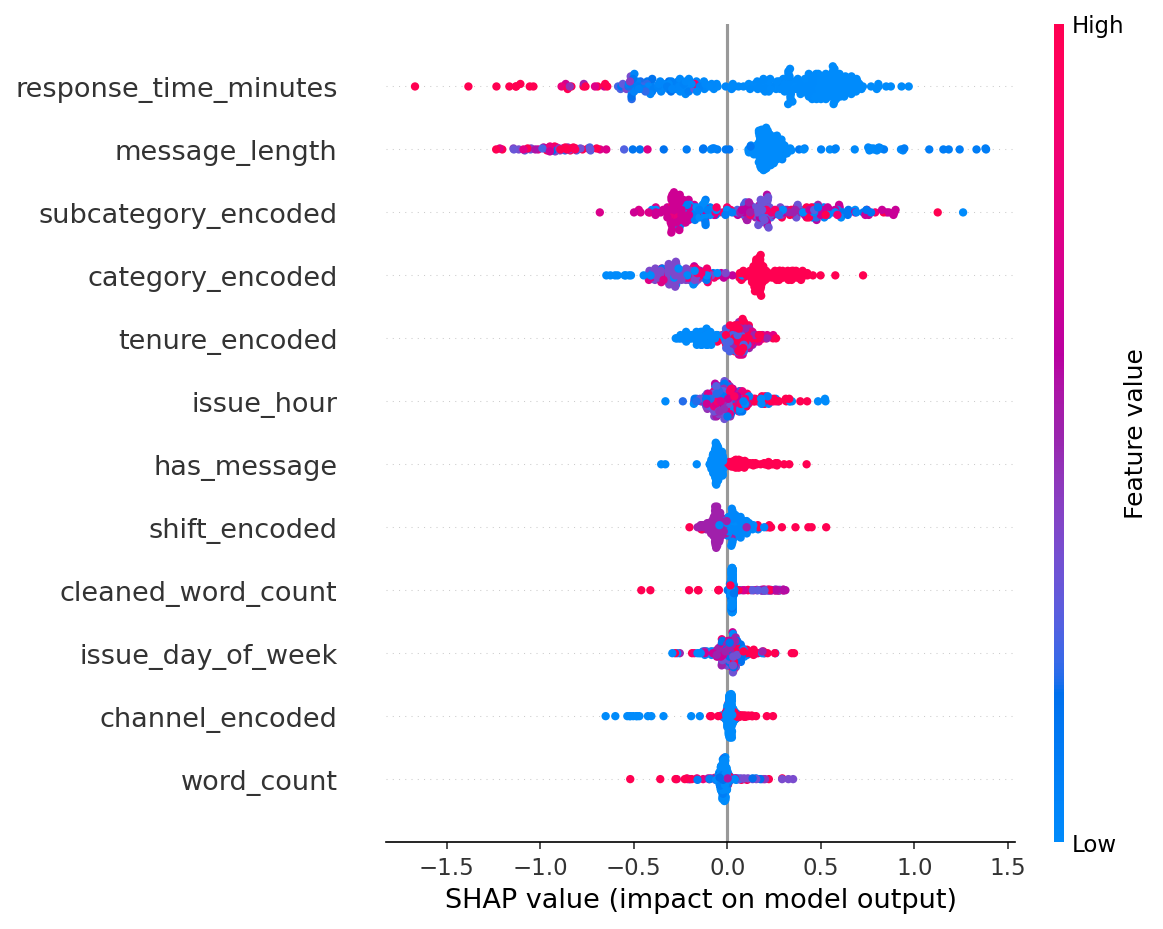
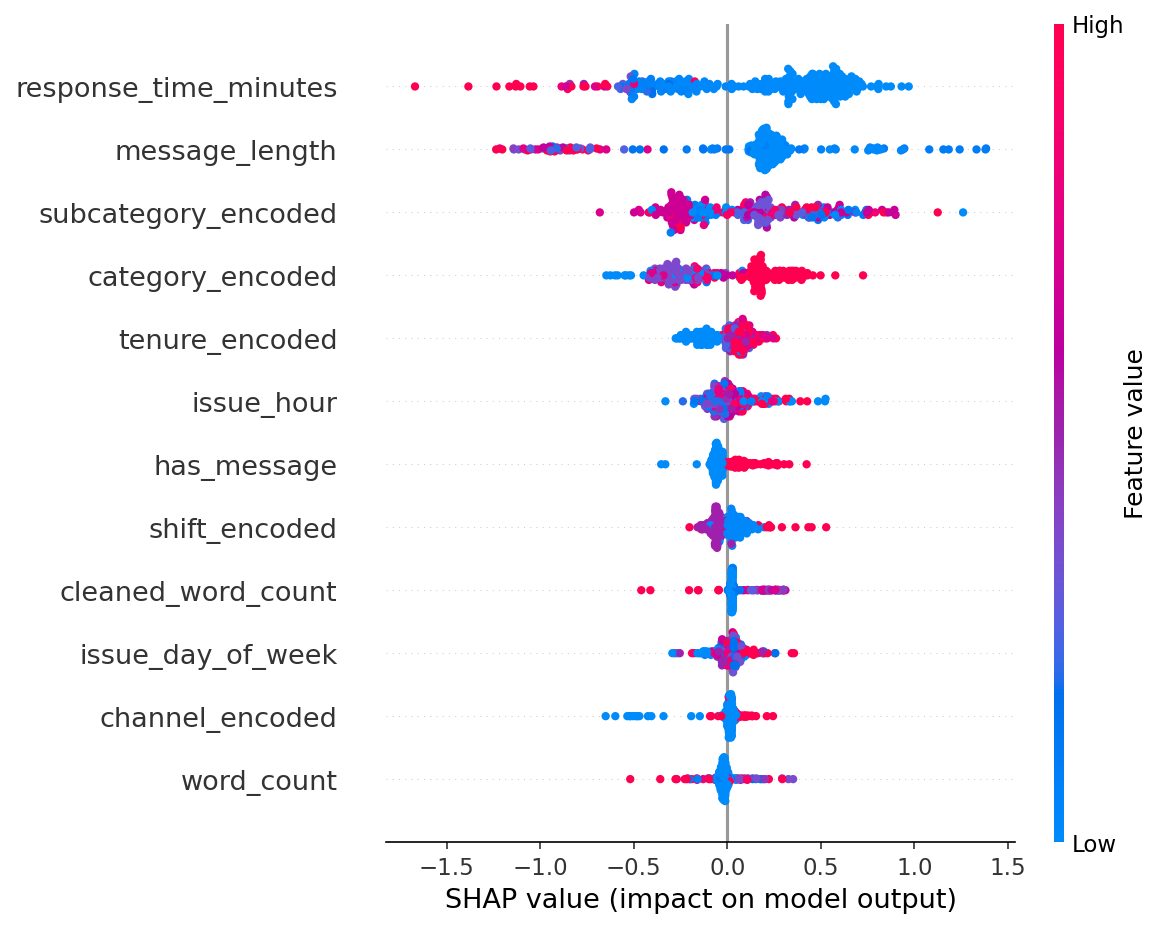
README update with Transformer Benchmarking and Hyperparameter Optimization

diff --git a/README.md b/README.md
@@ -228,17 +228,54 @@ results/                         # Plots and reports
 | 11 | cleaned_word_count | 0.0385 | Word count after NLP cleaning |
 | 12 | word_count | 0.0325 | Raw word count in message |
 
+### Transformer Benchmarking Results (BERT / Sentence-BERT)
+
+| Model | Embedding | Accuracy | F1-Score | AUC-ROC |
+|-------|-----------|----------|----------|---------|
+| XGBoost + Sentence-BERT | all-MiniLM-L6-v2 (384-dim) | **84.39%** | **90.96%** | 0.7025 |
+| LR + Sentence-BERT | all-MiniLM-L6-v2 (384-dim) | 82.93% | 89.95% | **0.7115** |
+| LR + TF-IDF (Baseline) | TF-IDF (5000-dim) | 83.59% | 90.43% | 0.6992 |
+
+Sentence-BERT provides dense 384-dimensional embeddings that capture semantic meaning better than sparse TF-IDF vectors. The SBERT+XGBoost combination achieves competitive F1 while using 13x fewer dimensions than TF-IDF.
+
+### Hyperparameter Optimization Results
+
+| Method | Best CV F1 | Test F1 | Best Parameters | Time |
+|--------|-----------|---------|-----------------|------|
+| Bayesian (Optuna, 30 trials) | **84.15%** | **83.68%** | n_estimators=496, max_depth=11, lr=0.178 | 34.2s |
+| RandomizedSearchCV (50 iter) | 83.57% | 83.25% | n_estimators=436, max_depth=9, lr=0.421 | 30.0s |
+| GridSearchCV | 81.38% | 80.78% | n_estimators=300, max_depth=7, lr=0.2 | 11.3s |
+
+Bayesian optimization (Optuna TPE sampler) outperforms both grid and random search by intelligently exploring the parameter space, achieving 2.8% higher F1 than GridSearch.
+
+### Cross-Validation Stability (10-Fold)
+
+| Model | Mean F1 | Std Dev | Stability |
+|-------|---------|---------|-----------|
+| Gradient Boosting | **90.51%** | +/-0.12% | Most stable |
+| Random Forest | 89.88% | +/-0.25% | Stable |
+| Logistic Regression | 83.36% | +/-1.57% | Moderate variance |
+| XGBoost | 79.65% | +/-0.28% | Stable (lower F1 due to class weight) |
+
 ### Key Observations
 
 1. **Text-based models dominate on F1-Score**: SVM and Naive Bayes with TF-IDF achieve the highest F1 (91.6%) because customer message text directly contains satisfaction/dissatisfaction signals.
 
 2. **Structured models lead on AUC-ROC**: Gradient Boosting (0.7353) and XGBoost (0.7311) are better at discriminating between classes overall, even though their accuracy is lower — they're more conservative and don't over-predict the majority class.
 
-3. **Class imbalance effect**: With 82.5% positive class, text models that predict "positive" more aggressively get high recall (98%+) and thus high F1, but their AUC reveals limited true discrimination ability.
+3. **Transformer embeddings improve discrimination**: Sentence-BERT achieves AUC 0.7115, outperforming TF-IDF baseline (0.6992), indicating better semantic understanding of customer messages.
 
-4. **response_time_minutes** is the strongest operational predictor — faster response directly improves satisfaction.
+4. **Class imbalance effect**: With 82.5% positive class, text models that predict "positive" more aggressively get high recall (98%+) and thus high F1, but their AUC reveals limited true discrimination ability.
 
-5. **message_length** is the top XGBoost feature — longer messages typically indicate more complex/negative issues.
+5. **Bayesian optimization finds better solutions**: Optuna's TPE sampler achieves 2.8% higher F1 than exhaustive GridSearch in similar time, validating the sequential optimization approach.
+
+6. **response_time_minutes** is the strongest operational predictor — faster response directly improves satisfaction.
+
+7. **message_length** is the top XGBoost feature — longer messages typically indicate more complex/negative issues.
+
+### Output Files
+
+All results from `run_pipeline.py` are saved to `results/` and `models/` directories (see "Where to Find Results" above).
 
 ### Output Files
 
